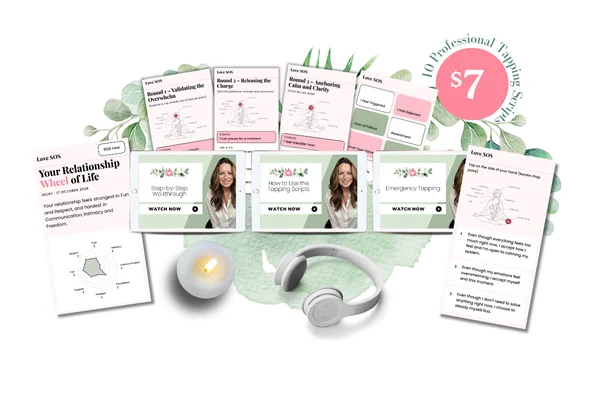
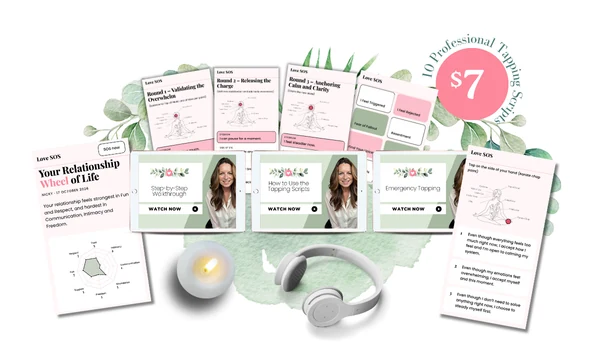
Love SOS sales page: revised callout, summary, pain points, shifts and intro; left aligned
- "Love SOS" on its own line above the headline
- Everything left aligned except inside the price card
- Empty space removed from the bottom of the hero picture

Claude-Session: https://claude.ai/code/session_016QcYpYHw4waFwPtGTXWSez

diff --git a/lovesos.html b/lovesos.html
@@ -88,7 +88,7 @@
   .top { padding-top: 44px; text-align: center; }
   .callout { font-size: 12px; font-weight: 500; letter-spacing: 0.14em; text-transform: uppercase; margin-bottom: 14px; }
   h1 { font-size: 40px; line-height: 1.06; }
-  h1 .h1-brand { display: block; font-size: 0.72em; margin-bottom: 6px; }
+  .name { font-family: var(--serif); font-weight: 800; font-size: 29px; line-height: 1.1; margin-bottom: 8px !important; }
   h1 em { font-style: italic; color: var(--pink); }
   .summary { margin-top: 18px; font-size: 17px; line-height: 1.6; }
   .under-btn { margin-top: 14px; font-size: 13px; font-weight: 500; line-height: 1.5; text-wrap: balance; }
@@ -194,6 +194,15 @@
   footer { margin-top: 48px; padding: 28px 0 40px; border-top: 1.5px solid var(--blush); font-size: 13px; text-align: center; }
   footer a { color: var(--black); }
 
+  /* Everything left aligned, on phone and computer. Only the price card stays centred inside its box. */
+  .top, .center, .pain-close, .intro-p, .final, footer { text-align: left !important; }
+  .heart { margin-left: 0 !important; margin-right: 0 !important; }
+  .nicky { margin-left: 0 !important; margin-right: 0 !important; }
+  .pic.chart img { margin-left: 0 !important; }
+  .pic.phone, .tablet { margin-left: 0 !important; margin-right: auto !important; }
+  .under-btn { text-wrap: pretty; }
+  .callout { text-wrap: balance; }
+
   /* Slim bar at the bottom of the screen on phones */
   .bar {
     position: fixed; left: 0; right: 0; bottom: 0; z-index: 30;
@@ -211,6 +220,7 @@
     .wrap { padding-left: 32px; padding-right: 32px; }
     .top { padding-top: 72px; }
     h1 { font-size: 58px; }
+    .name { font-size: 40px; }
     h2 { font-size: 40px; margin-bottom: 28px; }
     h3 { font-size: 22px; }
     .heart { width: 64px; }
@@ -236,16 +246,17 @@
   <section class="top">
     <div class="wrap">
       <svg class="heart" viewBox="0 0 100 92" aria-hidden="true" focusable="false"><path d="M50.5 88.5C35 76 9 58.5 6.2 35.8 4 17.6 15.6 5.4 29.4 5.6c9.6.2 16.8 6.4 20.6 14.6C54.2 11.4 61.8 4.6 72.2 4.4 85.8 4.2 96.4 15.8 94.6 33.4 92.4 56.2 67 75.6 50.5 88.5Z" fill="#000000"/><g fill="#FFFFFF"><ellipse cx="24" cy="24" rx="2.6" ry="2.2"/><ellipse cx="38" cy="33" rx="2.1" ry="2.5"/><ellipse cx="17" cy="41" rx="2.2" ry="2"/><ellipse cx="31" cy="50" rx="2.6" ry="2.3"/><ellipse cx="72" cy="20" rx="2.3" ry="2.6"/><ellipse cx="58" cy="30" rx="2.5" ry="2.2"/><ellipse cx="82" cy="35" rx="2.1" ry="2"/><ellipse cx="66" cy="45" rx="2.6" ry="2.4"/><ellipse cx="48" cy="52" rx="2" ry="2.3"/><ellipse cx="44" cy="68" rx="2.4" ry="2.1"/><ellipse cx="58" cy="63" rx="1.8" ry="1.9"/><ellipse cx="76" cy="54" rx="1.6" ry="1.7"/></g></svg>
-      <p class="callout">For women who love their partner, but not how they react</p>
-      <h1><span class="h1-brand">Love SOS:</span> calm down in minutes, before you say something you'll <em>regret</em></h1>
-      <p class="summary">Simple tapping that calms the rush in minutes, right on your phone. Think of it like a breathing exercise, with something for your hands to do. Pick how you feel and it walks you through every step, even if you've never tapped before.</p>
+      <p class="callout">For women who keep the peace, until they can't</p>
+      <p class="name">Love SOS</p>
+      <h1>Calm down in minutes, before you say something you'll <em>regret</em></h1>
+      <p class="summary">Simple tapping on your phone that takes the heat out of the moment, so you can say what you mean instead of what you'll regret. Think of it like a breathing exercise, with something for your hands to do. Pick how you feel and it walks you through every step, even if you've never tapped before.</p>
       <p class="summary" style="margin-top:14px">10 scripts, an Emergency Emotional Reset, 3 videos and your personalised Relationship Wheel of Life.</p>
       <a class="buy main-buy" href="#buy">Get Love SOS for $7</a>
       <p class="under-btn">Instant access • Opens on your phone • 7-day money-back guarantee</p>
       <figure class="shot">
         <picture>
           <source srcset="assets/lovesos/lovesos-kit.webp" type="image/webp">
-          <img src="assets/lovesos/lovesos-kit.jpg" width="610" height="405" alt="The Love SOS kit on screen: tapping rounds, the feelings cards, the three videos and the Relationship Wheel of Life" fetchpriority="high">
+          <img src="assets/lovesos/lovesos-kit.jpg" width="610" height="352" alt="The Love SOS kit on screen: tapping rounds, the feelings cards, the three videos and the Relationship Wheel of Life" fetchpriority="high">
         </picture>
       </figure>
     </div>
@@ -255,13 +266,13 @@
   <section class="sec">
     <div class="wrap">
       <h2 class="center">If any of this sounds like you</h2>
-      <blockquote class="pain"><p>"I've read that message ten times. It was only four words, but it felt like a whole rejection."</p></blockquote>
-      <blockquote class="pain"><p>"He asked if I was okay. I said 'fine'. Not angry fine. The kind that means I don't have the energy to explain this again."</p></blockquote>
-      <blockquote class="pain"><p>"I exploded about the mugs. But it wasn't the mugs. It was three months of feeling like I was the only one noticing things."</p></blockquote>
-      <blockquote class="pain"><p>"I started to bring something up, saw his face change, and said 'never mind'. Then I resented him for letting me drop it."</p></blockquote>
-      <blockquote class="pain"><p>"I said 'do whatever you want'. What I meant was: please choose me without me having to ask."</p></blockquote>
-      <blockquote class="pain"><p>"I said I was tired. I was tired. But I was also hurt, and scared that if I said the real thing, it would turn into another argument."</p></blockquote>
-      <p class="pain-close">It's never really about the mugs. It's the feeling underneath, arriving faster than you can catch it. Love SOS gives you a way to catch it.</p>
+      <blockquote class="pain"><p>"He asked what was wrong. I said 'nothing'. Then I lay awake replaying it until 3am."</p></blockquote>
+      <blockquote class="pain"><p>"I snapped about who washed the dishes. It wasn't the dishes. It was years of being the one who notices everything."</p></blockquote>
+      <blockquote class="pain"><p>"I bite my tongue to keep the peace. Then it all comes out at once, over something tiny."</p></blockquote>
+      <blockquote class="pain"><p>"I sat right next to him on the sofa and felt completely alone."</p></blockquote>
+      <blockquote class="pain"><p>"I said 'it's fine, I'll do it' for the hundredth time, and something in me went quiet."</p></blockquote>
+      <blockquote class="pain"><p>"I heard myself shouting and thought: who is this woman? I don't recognise myself."</p></blockquote>
+      <p class="pain-close">It's never really about who washed the dishes. It's years of held-in feelings arriving all at once, faster than you can catch them. Love SOS gives you a way to catch them.</p>
     </div>
   </section>
 
@@ -269,11 +280,11 @@
   <section class="sec">
     <div class="wrap">
       <h2 class="center">What actually shifts</h2>
-      <div class="shift"><h3>The rush settles in minutes</h3><p>That hot, tight, about-to-say-it feeling calms down, so you can choose what happens next.</p></div>
-      <div class="shift"><h3>You catch it before it comes out</h3><p>When the feeling arrives, you know exactly what to do with your hands and your words.</p></div>
-      <div class="shift"><h3>You say the real thing</h3><p>"I felt left out" instead of three months of mugs.</p></div>
-      <div class="shift"><h3>You're back in minutes, not hours</h3><p>No two-hour silence. Three short rounds of tapping and you're back in the room.</p></div>
-      <div class="shift"><h3>You stop saying "never mind"</h3><p>You bring it up calmly, and you don't drop it when their face changes.</p></div>
+      <div class="shift"><h3>You calm down before you say it</h3><p>That hot, tight feeling in your chest settles, and you get to choose your words.</p></div>
+      <div class="shift"><h3>You say what you actually mean</h3><p>"I feel invisible" instead of a row about the dishes.</p></div>
+      <div class="shift"><h3>No more lying awake replaying it</h3><p>You deal with it in the moment, so it doesn't follow you to bed.</p></div>
+      <div class="shift"><h3>You stop biting your tongue</h3><p>You can bring things up calmly, without it all coming out at once.</p></div>
+      <div class="shift"><h3>You feel more like yourself again</h3><p>Less snapping, less shutting down. More of the woman you know you are.</p></div>
       <div class="shift"><h3>You can see it working</h3><p>Rate how strong the feeling is before and after. Seeing it come down tells you your body is settling.</p></div>
       <div class="shift"><h3>You know where to start</h3><p>Your personalised Relationship Wheel of Life shows which part of your relationship needs care first, and which script to use.</p></div>
       <a class="buy main-buy" href="#buy">Get Love SOS for $7</a>
@@ -284,7 +295,7 @@
   <section class="sec">
     <div class="wrap">
       <h2 class="center">Introducing Love SOS</h2>
-      <p class="intro-p">Your calm-down kit for real relationship moments. Open it in the kitchen, the bathroom, the car, or in the five minutes before you reply. It walks you through every step, so you don't have to think when you can't think straight.</p>
+      <p class="intro-p">Your calm-down kit for the moments in your relationship that get to you. Open it in the kitchen, the bathroom, the car, or in the five minutes before you reply. It walks you through every step, so you don't have to think when you can't think straight.</p>
       <div class="whatis">
         <h3>What is tapping?</h3>
         <p>Tapping, also called EFT, means gently tapping points on your face and body with your fingertips while you say how you feel. It tells your body you're safe, so the rush settles and you can think clearly again. It takes a few minutes, and you can do it anywhere.</p>
